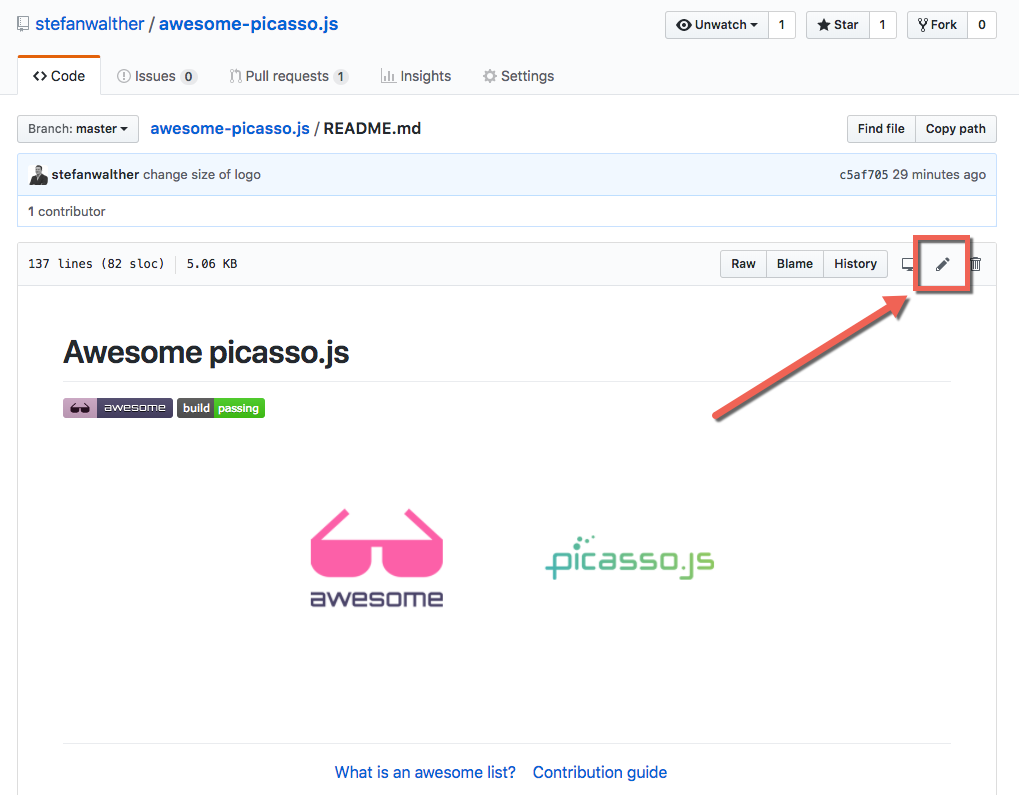
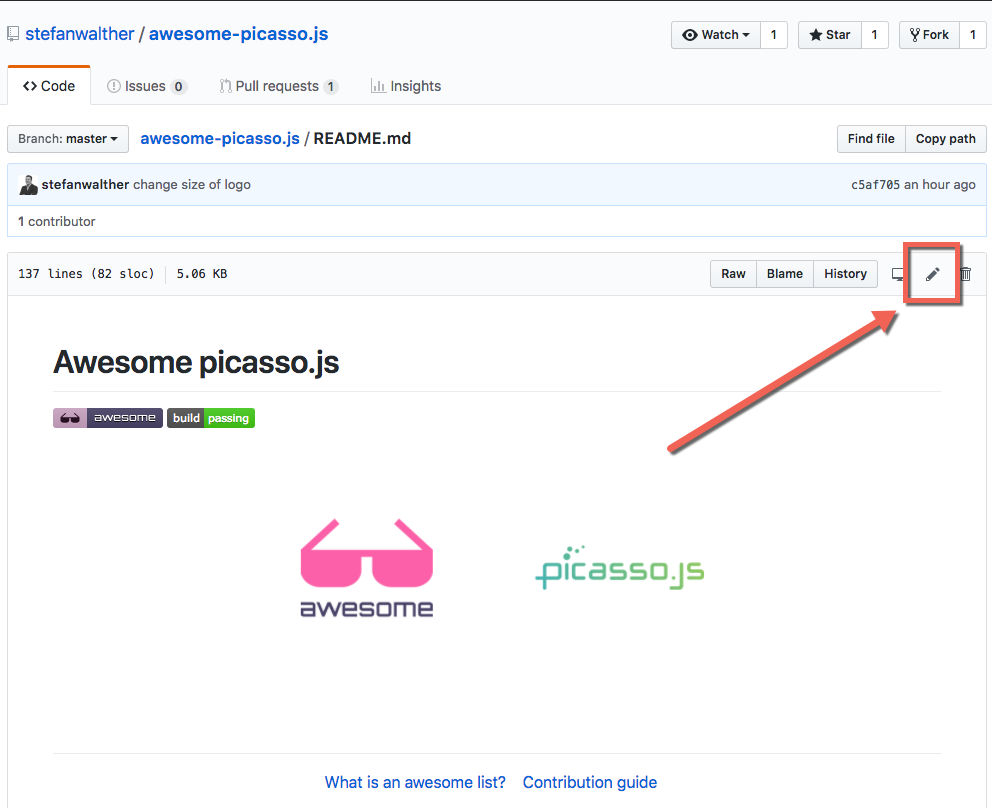
contributing guide

diff --git a/CONTRIBUTING.md b/CONTRIBUTING.md
@@ -47,9 +47,22 @@ You'll need a [GitHub account](https://github.com/join)!
 
 
 
-5. Say why you're proposing the changes, and then click on "Commit changes":
+5. Say why you're proposing the changes, and then click on "Propose file change":
+
+- Make sure that you add a descriptive subject of what you have added
+
+
+![Step 5 - Propose file change](https://raw.githubusercontent.com/stefanwalther/awesome-picasso.js/formatting/media/how-to-contribute/step-5-propose-file-change.png)
+
+
 
 6. Submit the [pull request](https://help.github.com/articles/about-pull-requests/)!
+
+![Step 6 - Start Pull Request](https://raw.githubusercontent.com/stefanwalther/awesome-picasso.js/formatting/media/how-to-contribute/step-6-create-pull-request.png)  
+
+![Step 5 - Confirm Pull Request](https://raw.githubusercontent.com/stefanwalther/awesome-picasso.js/formatting/media/how-to-contribute/step-6-create-pull-request-2.png)
+
+
 
 ## Updating your Pull Request
 

diff --git a/README.md b/README.md
@@ -46,7 +46,7 @@ Solutions build on top of picasso.js
 
 ## Chart Types
 
-picasso.js definitions for different chart types:
+picasso.js definitions & examples for different chart types:
 
 ### General
 
